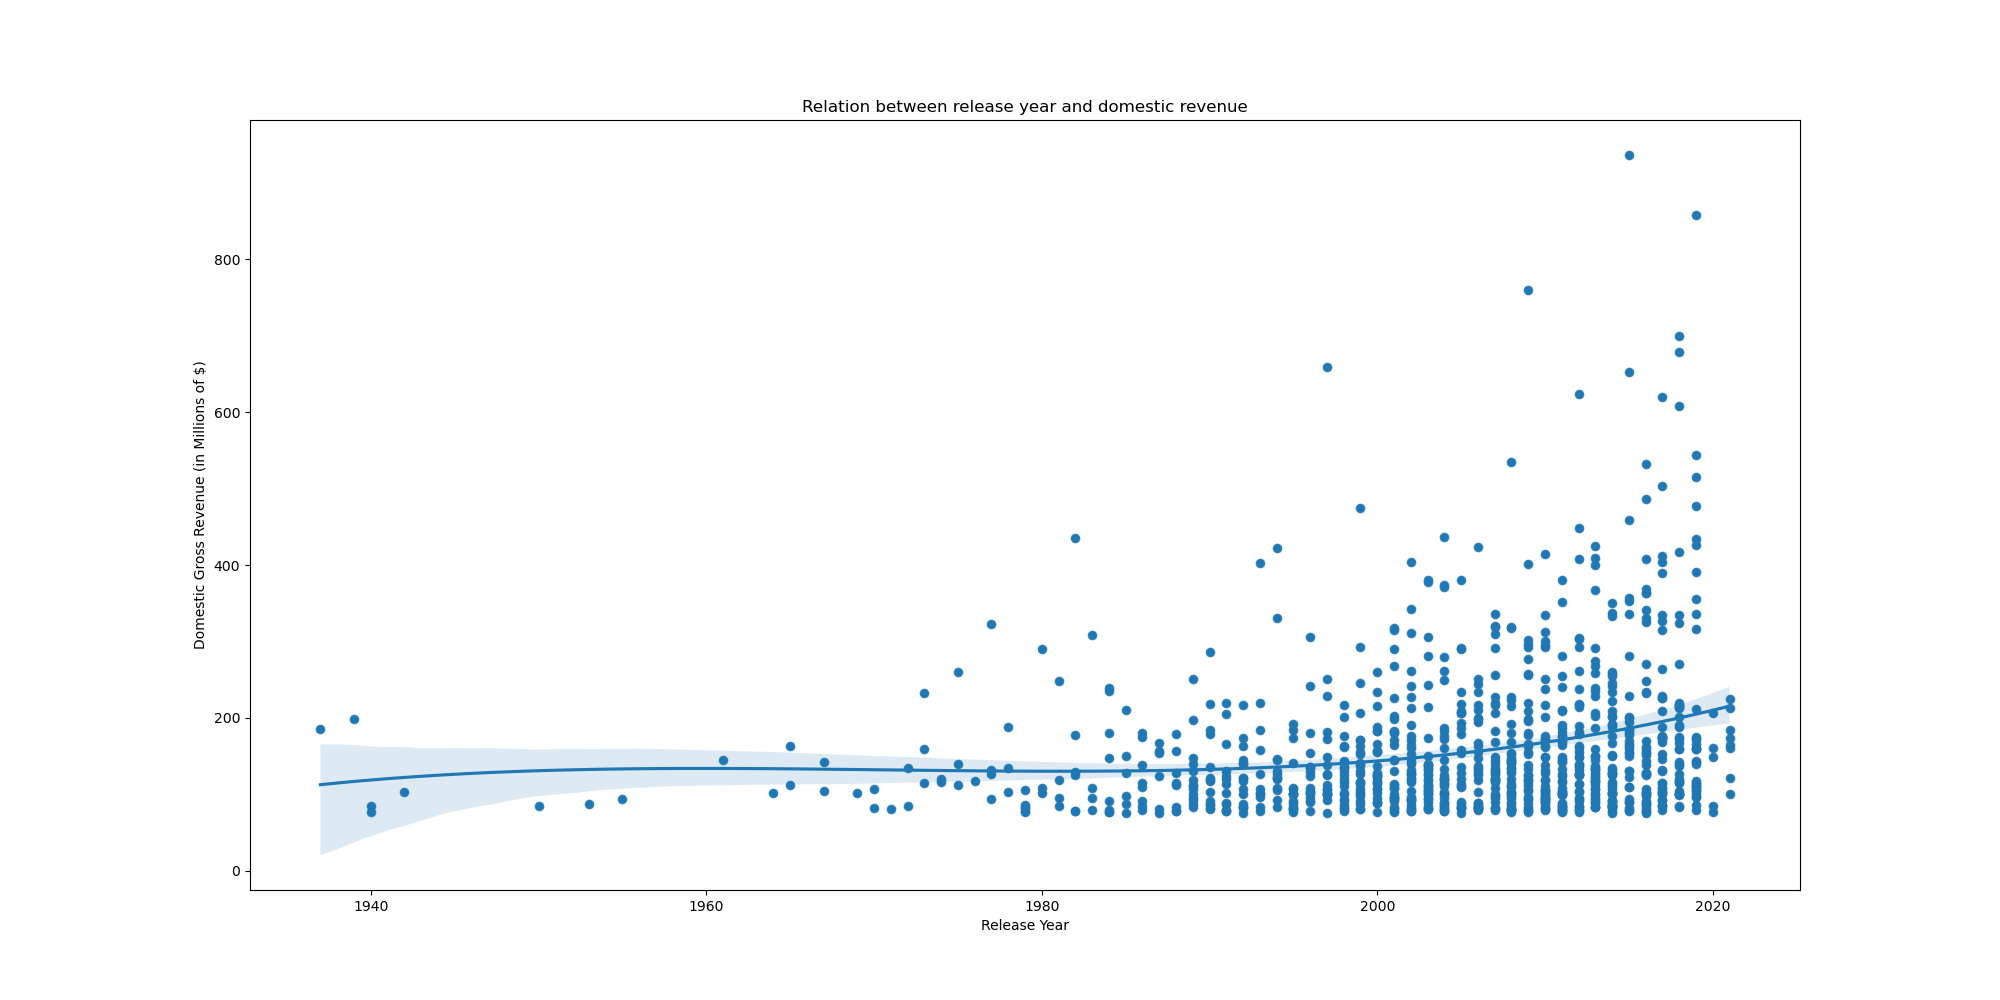
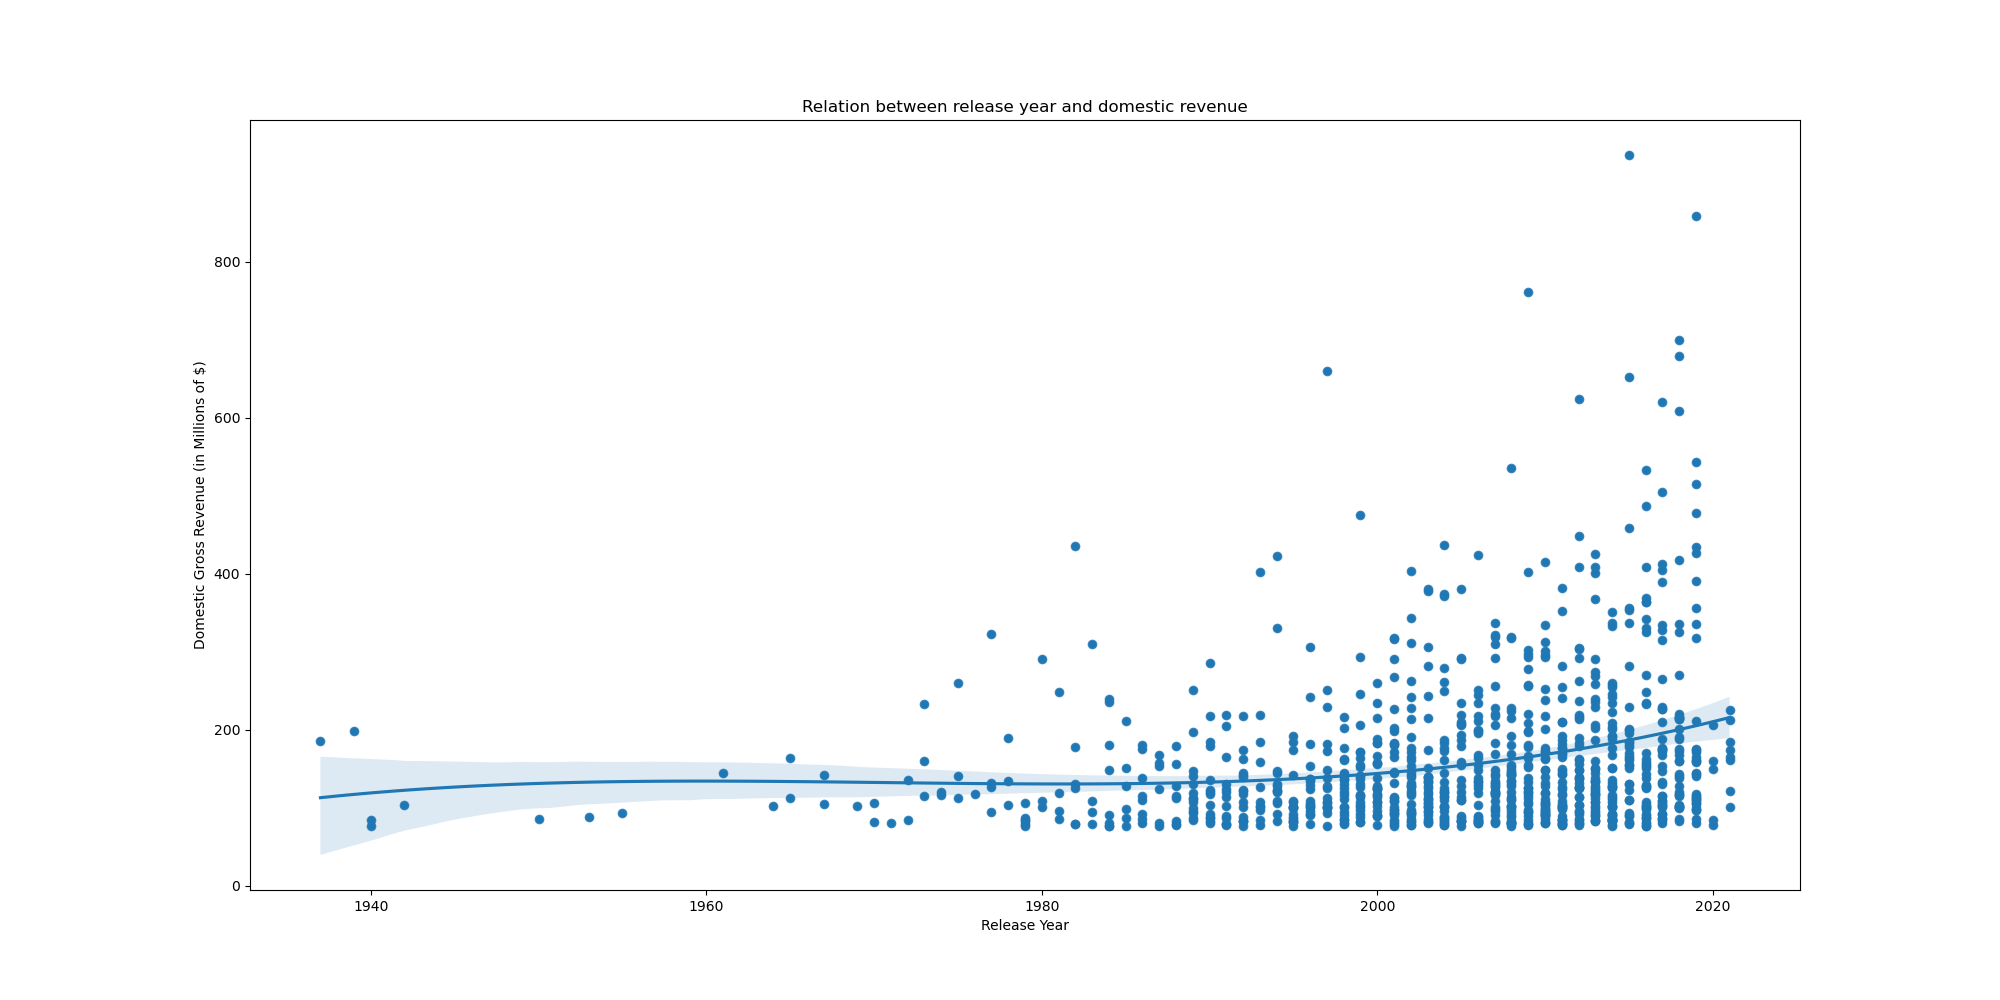
fixed incorrect merge on graphs.py code

diff --git a/code/graphs.py b/code/graphs.py
@@ -20,7 +20,7 @@ if __name__ == "__main__":
     os.makedirs(OUT_DIR, exist_ok=True)
     df = pd.read_csv(IN_FILE_PATH).sort_values("GrossRevenue", ascending=False)[:1000]
 
-    # First Plot 
+    # Top 50 highest domestic grossing movies plot 
     plot1 = (
     df.groupby("Title")["GrossRevenue"]
     .mean()
@@ -28,44 +28,45 @@ if __name__ == "__main__":
     .plot.bar(figsize=(25, 8), title="Top 50 highest domestic grossing movies")
     )
     plot1.set(xlabel="Title", ylabel="Domestic Gross Revenue (in Millions of $)")
-    save_plot(plot1.figure, OUT_DIR, "Figure1.png")
-    plot1.ylim([200, 1000])
+    plot1.set_ylim([300, 1000])
+    save_plot(plot1.figure, OUT_DIR, "Top_50_Grossing.png")
 
-    # Second Plot 
+    # Relation between release year and domestic revenue plot 
     plot2 = plt.figure(figsize=(20, 10))
     plot2 = sns.scatterplot(data=df, x="ReleaseYear", y="GrossRevenue")
-    plot2.axhline(np.mean(df["GrossRevenue"]), color="red")
+    plot2 = sns.regplot(data=df, x="ReleaseYear", y="GrossRevenue", order=3)
     plot2.set(xlabel="Release Year", ylabel="Domestic Gross Revenue (in Millions of $)",
          title="Relation between release year and domestic revenue")
-    save_plot(plot2.figure, OUT_DIR, "Figure2.png")
+    save_plot(plot2.figure, OUT_DIR, "Release_Year_by_Grossing.png")
 
-    # Third Plot 
+    # Relation between metascore and domestic revenue plot 
     plot3 = plt.figure(figsize=(20, 10))
     plot3 = sns.scatterplot(data=df, x="Metascore", y="GrossRevenue")
     plot3.axhline(np.mean(df["GrossRevenue"]), color="red")
     plot3.axvline(np.mean(df["Metascore"]), color="red")
     plot3.set(xlabel="Metascore", ylabel="Domestic Gross Revenue (in Millions of $)",
          title="Relation between metascore and domestic revenue")
-    save_plot(plot3.figure, OUT_DIR, "Figure3.png")
+    save_plot(plot3.figure, OUT_DIR, "Metascore_by_Grossing.png")
 
 
-    # Fourth Plot
+    # Relation between IMDB rating and domestic revenue plot
     plot4 = plt.figure(figsize=(20, 10))
     plot4 = sns.scatterplot(data=df, x="IMDBRating", y="GrossRevenue")
     plot4.axhline(np.mean(df["GrossRevenue"]), color="red")
     plot4.axvline(np.mean(df["IMDBRating"]), color="red")
     plot4.set(xlabel="IMDB Rating", ylabel="Domestic Gross Revenue (in Millions of $)",
          title="Relation between IMDB rating and domestic revenue")
-    save_plot(plot4.figure, OUT_DIR, "Figure4.png")
+    save_plot(plot4.figure, OUT_DIR, "IMDBRating_by_Grossing.png")
 
-    # Fifth Plot
+    # Relation between IMDB rating and metascore plot
     plot5 = plt.figure(figsize=(20, 10))
     plot5 = sns.scatterplot(data=df, x="IMDBRating", y="Metascore")
+    plot5 = sns.regplot(data=df, x="IMDBRating", y="Metascore")
     plot5.set(xlabel="IMDB Rating", ylabel="Metascore",
          title="Relation between IMDB rating and metascore")
-    save_plot(plot5.figure, OUT_DIR, "Figure5.png")
+    save_plot(plot5.figure, OUT_DIR, "Scatter_IMDB_by_metascore.png")
     
-    # Sixth Code   
+    # Code for probability distribution graph   
     genre_props = (
     df[['Action', 'Adventure', 'Animation', 'Biography', 'Comedy', 'Crime',
        'Drama', 'Family', 'Fantasy', 'History', 'Horror', 'Music', 'Musical',
@@ -76,7 +77,7 @@ if __name__ == "__main__":
     .sort_values("Proportion", ascending = False)
     )
     
-    # Plot
+    # Plot of percentage of Top 1000 US Grossing Movies by Genre
     plot6 = plt.figure(figsize=(18,6))
     plot6 = sns.barplot(data=genre_props,
             x = "Proportion",
@@ -84,25 +85,25 @@ if __name__ == "__main__":
            orient = "h",
            palette = "Blues_r")
     plot6.set(title="Percentage of Top 1000 US Grossing Movies by Genre")
-    save_plot(plot6.figure, OUT_DIR, "Figure6.png")
+    save_plot(plot6.figure, OUT_DIR, "Percentage_of_movies_genre.png")
     
     
-    # Seventh Plot   
+    # Plot of relation between release year and domestic revenue with Action movies highlighted
     plot7 = plt.figure(figsize=(20, 10))
     plot7 = sns.scatterplot(data=df, x="ReleaseYear", y="GrossRevenue", hue="Action")
     plot7.set(xlabel="Release Year", ylabel="Domestic Gross Revenue (in Millions of $)",
          title="Relation between release year and domestic revenue with Action movies highlighted")
-    save_plot(plot7.figure, OUT_DIR, "Figure7.png")
+    save_plot(plot7.figure, OUT_DIR, "Release_year_by_grossing_action.png")
     
     
-    # Eighth Plot   
+    # Plot of relation between release year and domestic revenue with Adventure movies highlighted
     plot8 = plt.figure(figsize=(20, 10))
     plot8 = sns.scatterplot(data=df, x="ReleaseYear", y="GrossRevenue", hue="Adventure")
     plot8.set(xlabel="Release Year", ylabel="Domestic Gross Revenue (in Millions of $)",
          title="Relation between release year and domestic revenue with Adventure movies highlighted")
-    save_plot(plot8.figure, OUT_DIR, "Figure8.png")
+    save_plot(plot8.figure, OUT_DIR, "Release_year_by_grossing_adventure.png")
     
-    # Ninth Plot
+    # Plot of relation between genres and average domestic revenue
     plot9 = (
     df.groupby("Genres")["GrossRevenue"]
     .mean()
@@ -111,21 +112,5 @@ if __name__ == "__main__":
     )
     plot9.set(xlabel="Genre Combination", ylabel="Average Domestic Gross Revenue (in Millions of $)",
          title="Relation between genres and average domestic revenue")
-    save_plot(plot9.figure, OUT_DIR, "Figure9.png")
-    
-    
-    ## Extra Plots
-    # Tenth Plot
-    plot10 = plt.figure(figsize=(20, 10))
-    plot10 = sns.lineplot(data=df, x="ReleaseYear", y="Runtime")
-    save_plot(plot10.figure, OUT_DIR, "Figure10.png")
-    
-    # Eleventh Plot
-    plot11 = plt.figure(figsize=(20, 10))
-    plot11 = sns.lineplot(data=df, x="IMDBRating", y="Runtime")
-    save_plot(plot11.figure, OUT_DIR, "Figure11.png")
-    
-    # Twelfth Plot
-    plot12 = plt.figure(figsize=(20, 10))
-    plot12 = sns.lineplot(data=df, x="Metascore", y="Runtime")
-    save_plot(plot12.figure, OUT_DIR, "Figure12.png")
+    plot9.set_ylim([100, 500])
+    save_plot(plot9.figure, OUT_DIR, "Grossing_by_genre_group.png")
